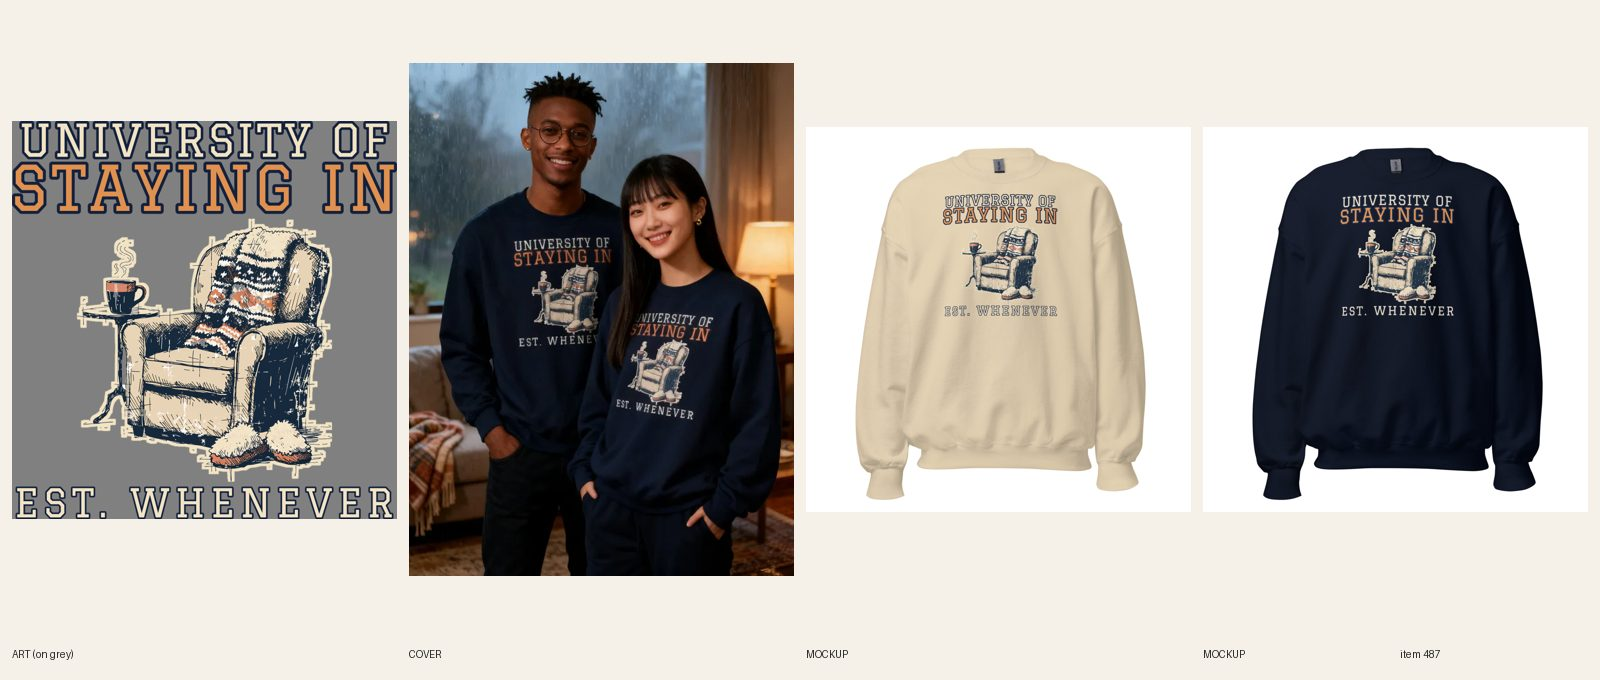
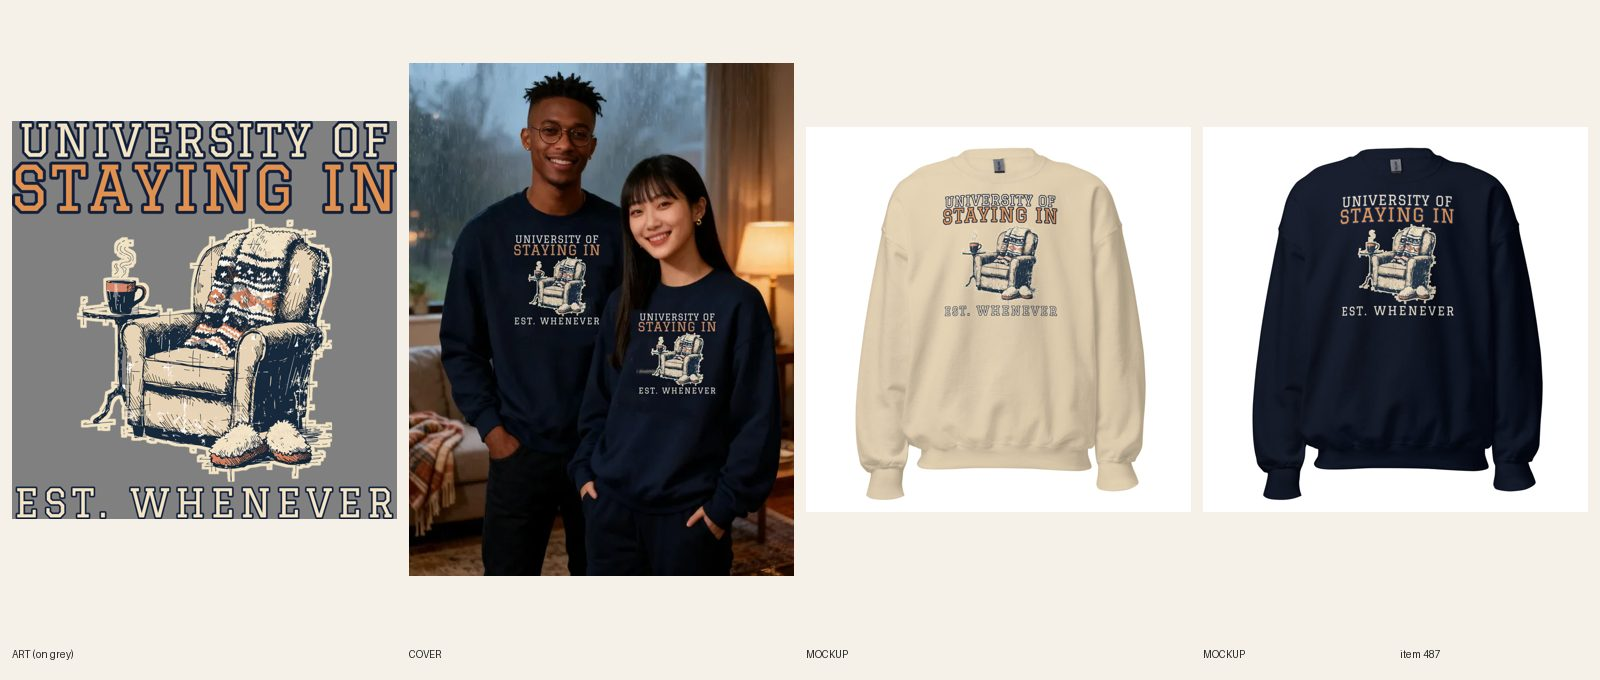
[C] review 487 university of staying in (composite cover)

Changed region(s): [[0.3125, 0.3397, 0.4688, 0.6176]]

diff --git a/docs/pipeline/487-crew-university-of-staying-in.md b/docs/pipeline/487-crew-university-of-staying-in.md
@@ -1,4 +1,4 @@
-status: BUILDING [C] 2026-10-17 23:01
+status: REVIEW
 lane: C
 type: new
 id: 487
@@ -33,3 +33,4 @@ kd: 46
 - 2026-10-17 22:26 UTC director: REDO.
   1. R6.9 (hair + overlap): her hair covers the U of UNIVERSITY, and her shoulder cuts off the last letters of the man's EST. WHENEVER. Composite the exact print from the Navy mockup onto both chests in print-prep, with the hair behind her shoulder. If her shoulder still overlaps his print, regenerate once with them standing side by side, not overlapping. Read every word on both people.
   2. (Withdrawn by the director: "Original art, made for Graphic Tees Co." is the SOP line for ai-art and stays.)
+- 2026-10-17 23:01 UTC builder [C]: REDO done: cover now carries the exact print from the Navy mockup composited on BOTH chests (old prints cleared); her hair no longer touches UNIVERSITY, his EST. WHENEVER is clear of her shoulder, no regeneration needed; every word on both read at zoom. No fal spend.

diff --git a/docs/intake-log.md b/docs/intake-log.md
@@ -1,3 +1,4 @@
+2026-10-17 23:01 UTC — [C] REVIEW #487 (REDO: composite cover both people).
 2026-10-17 23:01 UTC — [C] REVIEW #415 (REDO: composite cover, meta fixed).
 2026-10-17 23:00 UTC — [C] REVIEW #281 (REDO: composite cover, copy fixes).
 RUNNING lane A since 2026-10-17 23:00 UTC
